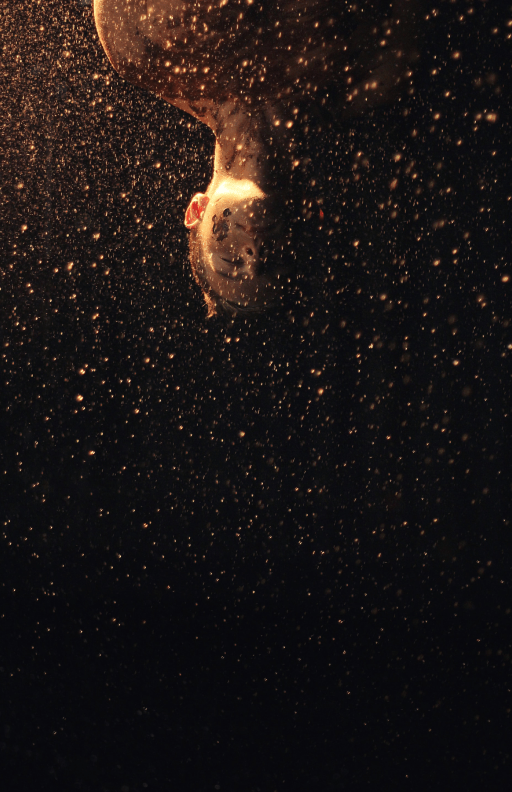
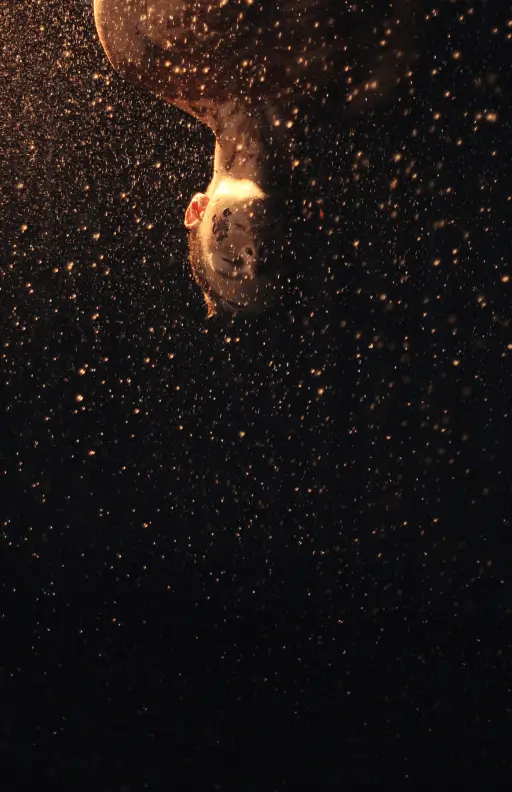
fix fonts path + minify some images

Changed region(s): [[0.1875, 0.0606, 0.2188, 0.1212], [0.375, 0.2424, 0.4062, 0.2727], [0.125, 0.0303, 0.1562, 0.0606]]

diff --git a/src/fonts.scss b/src/fonts.scss
@@ -1,21 +1,21 @@
 // url('./assets/fonts/Fira_Sans_Extra_Condensed/FiraSansExtraCondensed-Thin.ttf') format('truetype');
 @font-face {
     font-family: 'Fira Sans Extra Condensed';
-    src: url('@/fonts/Fira_Sans_Extra_Condensed/FiraSansExtraCondensed-Regular.ttf') format('truetype');
+    src: url('/fonts/Fira_Sans_Extra_Condensed/FiraSansExtraCondensed-Regular.ttf') format('truetype');
     font-weight: 400;
     font-display: swap;
 }
 
 @font-face {
     font-family: 'Fira Sans Extra Condensed';
-    src: url('@/fonts/Fira_Sans_Extra_Condensed/FiraSansExtraCondensed-Light.ttf') format('truetype');
+    src: url('/fonts/Fira_Sans_Extra_Condensed/FiraSansExtraCondensed-Light.ttf') format('truetype');
     font-weight: 200;
     font-display: swap;
 }
   
 @font-face {
     font-family: 'Gruppo';
-    src: url('@/fonts/Gruppo/Gruppo-Regular.ttf') format('truetype');
+    src: url('/fonts/Gruppo/Gruppo-Regular.ttf') format('truetype');
     font-weight: 400;
     font-display: swap;
 }
